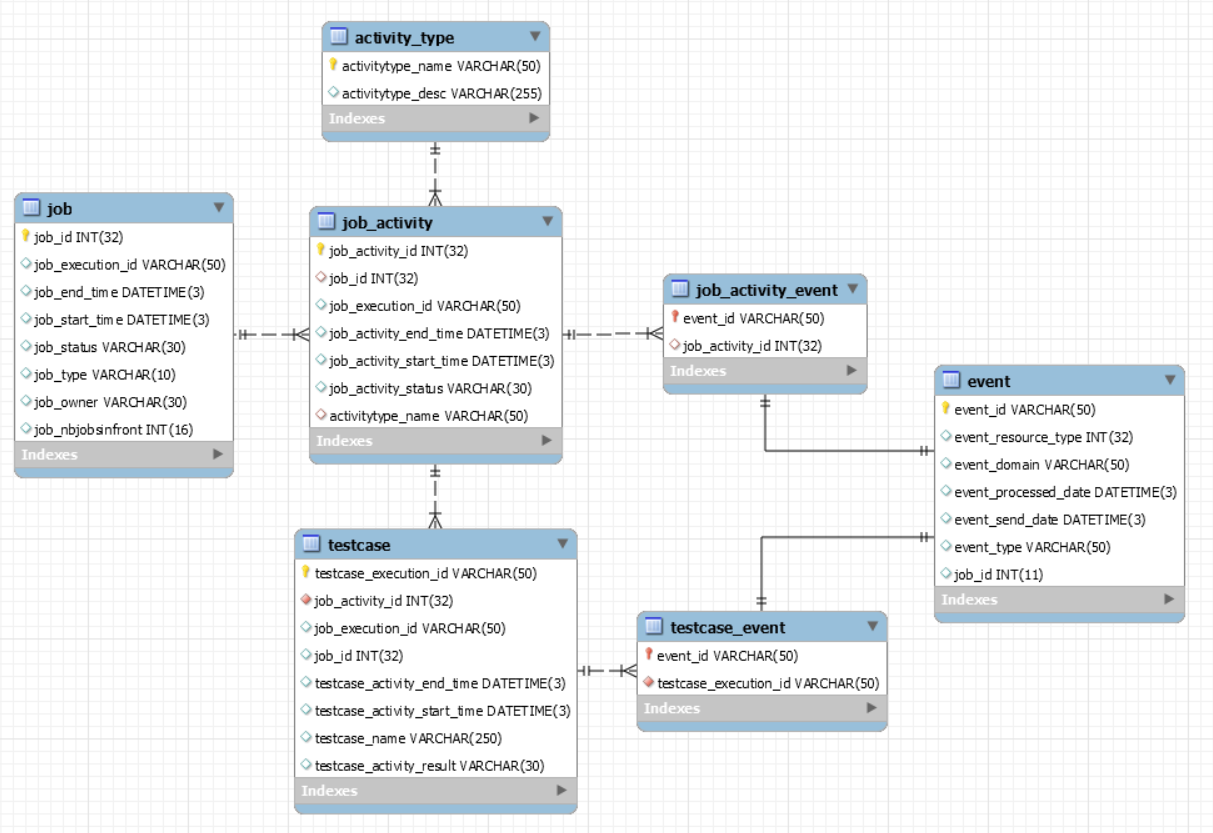
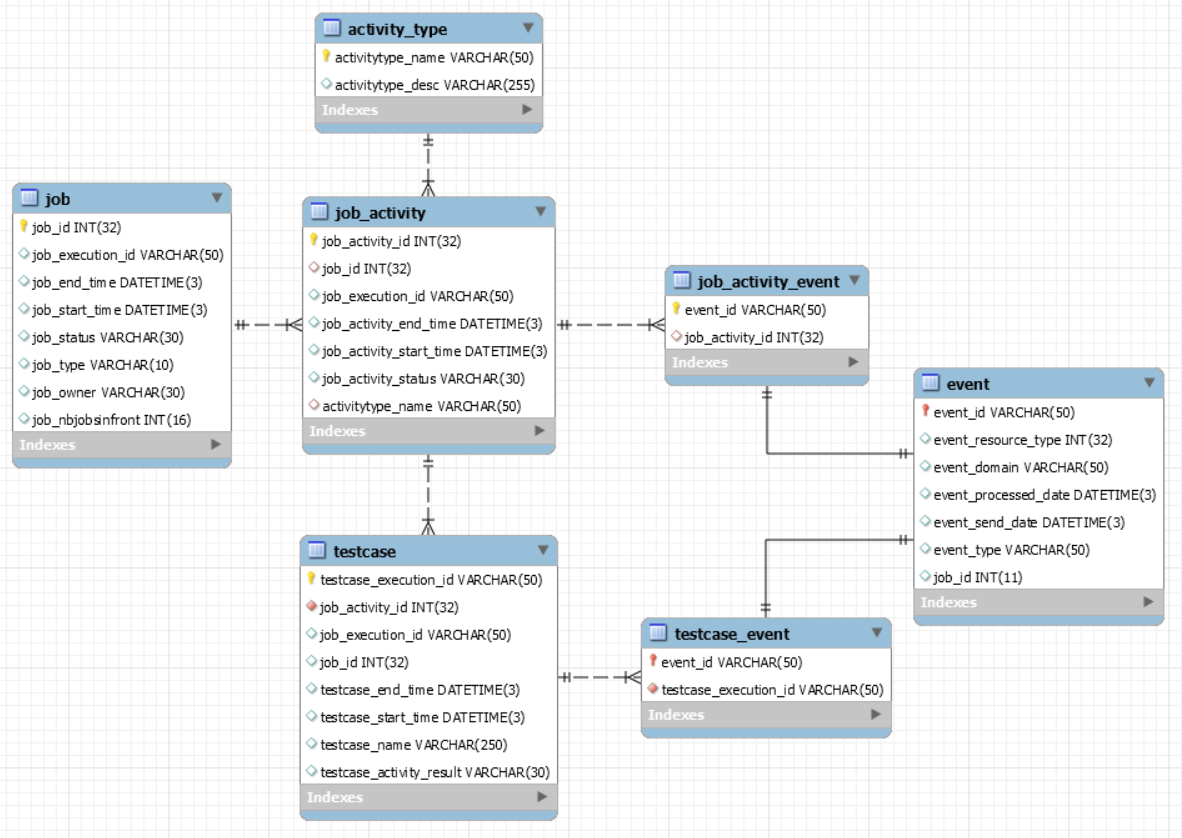
split model summary

Changed region(s): [[0.0, 0.0, 1.0, 0.9988]]

diff --git a/Data-Collector.md b/Data-Collector.md
@@ -1,0 +1,161 @@
+# Data-Collector模块总结
+
+## 一、数据库表结构
+
+![alt data-collector-db](C:\GitRepository\Z-DYZ\SUV-Summary\image\data-collector-db.png)
+
+## 二、该模块相关的Eiffel Message
+
+		data-collector服务将从RabbitMQ中收集5种Eiffel Message，分别为Job相关的三种：JobQueueEvent、JobStartedEvent和JobFinishedEvent，以及Testcase相关的两种：TestcaseStartedEvent、TestcaseFinishedEvent。
+
+### 1、JobQueueEvent
+
+		表示一个Job已经加入了某个STP pool的等待队列中，等待空闲的STP被分配出来用以执行该任务。该message中的关键字段有：domainId表示该message的发送方、eventType表示event类型、eventTime表示该event的发生时间、jobExecutionId表示该job的唯一标识、jobId也表示该job的唯一标识。值得注意的是，该类message中没有STP的名字，因为等待阶段该job的STP还没有分配。
+
+### 2、JobStartedEvent
+
+		表示一个Job已经被分配了STP并开始执行，该message中的关键字段有：domainId、eventType、eventTime、jobExecutionId、jobId、stp表示执行该job的STP的名字。Job执行过程中，除了最开始的install UP环节外，大部分时间都是在串行执行多个Testcase。
+
+### 3、TestcaseStartedEvent
+
+		表示一个testcase开始执行，该message中的关键字段除了domainId、eventType、eventTime、jobExecutionId、jobId、stp等字段外，还有testCaseExecutionId是该testcase的唯一标识。
+
+### 4、TestcaseFinishedEvent
+
+		表示一个testcase执行结束，该message中的关键字段为domainId、eventType、eventTime、jobExecutionId、jobId、stp、testCaseExecutionId，除了这些还有resultCode表示该testcase的执行结果是成功还是失败。
+
+### 5、JobFinishedEvent
+
+		表示一个Job已经执行完毕，该message中的关键字段包括domainId、eventType、eventTime、jobExecutionId、jobId、stp等。
+
+### 6、Message Flow
+
+		如图所示是一个完整的Job执行流程，该Job执行期间运行了三个testcase。图上涉及的9个event中的domainId、jobExecutionId、jobId、stp应该都是相同的。每一对testcase的event中testCaseExecutionId应该是相同的。每一个event中还有一个inputEvent字段，其值为该message上游message的eventId的值，该字段的作用是：当我们拿到某个message，便可以通过inputEvent字段找到该message所处job工作流的上游全部message。
+
+![alt eiffel-flow](C:\GitRepository\Z-DYZ\SUV-Summary\image\eiffel-flow.png)
+
+## 三、 数据处理流程
+
+### 1、当接收到JobQueueEvent时
+
+- Job表插入一条新的记录，写入job_id，job_execution_id，并将该Event中的eventTime做为job_start_time。或者根据jobId/jobExecutionId查询已经存在的纪录，并更新以上字段。（有可能是data-collector先收到了该Job其他的event，所以jobId/jobExecutionId对应的纪录已经存在）
+
+- JobActivity表插入一条job_activity_type为job_queue的新纪录，写入job_id，job_execution_id，并将该Event中的eventTime字段的值做为job_activity_start_time。或者根据jobId/jobExecutionId查询job_activity_type为job_queue的纪录，并更新以上字段。(有可能是data-collector先收到了该Job的JobStartedEvent，所以该jobId或者jobExecutionId对应的job_activity_type为job_queue的纪录已经存在）
+- JobActivityEvent表中插入一条新的记录，写入event_id和job_activity_id字段。
+
+- Event表中插入一条新的纪录，写入相关字段。
+
+### 2、当接收到JobStartedEvent时
+
+- Job表插入一条新的纪录，写入job_id，job_execution_id。或者根据jobId/jobExecutionId查询已经存在的纪录，并更新以上字段。
+
+- JobActivity分别表插入两条job_activity_type为job_queue和job_execution的新纪录。写入job_id，job_execution_id，并将该Event中的eventTime字段的值分别做为job_activity_type为job_queue纪录的job_activity_end_time以及job_activity_type为job_execution纪录的job_activity_start_time。或者根据jobId/jobExecutionId分别查询job_activity_type为job_queue和job_execution的纪录，并更新以上字段。
+- JobActivityEvent表中插入一条新的记录，写入event_id和job_activity_id字段。
+- Event表中插入一条新的纪录，写入相关字段。
+
+### 3、当接收到TestcaseStartedEvent时
+
+- Job表插入一条新的纪录，写入job_id，job_execution_id。或者根据jobId/jobExecutionId查询已经存在的纪录，并更新以上字段（该Job的JobQueueEvent或者JobStartedEvent已经收到，该job在Job表中的记录已经存在）。
+- JobActivity表插入一条job_activity_type为testcase_execution的新纪录，写入job_id，job_execution_id，并将该Event中的eventTime字段的值做为job_activity_start_time。或者根据jobId/jobExecutionId查询job_activity_type为job_execution的纪录，并更新以上字段。(有可能是data-collector先收到了TestcaseFinishedEvent，所以该记录已经存在）注意，对于同一个testcase_execution activity可能存在多个test case，所以job_activity_start_time要是用多个TestcaseStartedEvent中最早的eventTime。
+- TestCase表中插入一条新的纪录，写入testcase_execution_id、activity_id、job_execution_id、job_id、testcase_start_time、testcard_name字段。或者使用testcase_execution_id查询已经存在的纪录，更新testcase_start_time的值。
+- TestcaseEvent中插入一条新的纪录，写入event_id和testcase_execution_id。
+
+- Event表中插入一条新的纪录，写入相关字段。
+
+### 4、当接收到TestcaseFinishdEvent时
+
+- Job表插入一条新的纪录，写入job_id，job_execution_id。或者根据jobId/jobExecutionId查询已经存在的纪录，并更新以上字段。
+- JobActivity表插入一条job_activity_type为testcase_execution的新纪录，写入job_id，job_execution_id，并将该Event中的eventTime字段的值做为job_activity_end_time。或者根据jobId/jobExecutionId查询job_activity_type为job_execution的纪录，并更新以上字段。(有可能是data-collector先收到了TestcaseStartedEvent，所以该记录已经存在）注意，对于同一个testcase_execution activity可能存在多个test case，所以job_activity_end_time要是用多个TestcaseStartedEvent中最晚的eventTime。
+- TestCase表中插入一条新的纪录，写入testcase_execution_id、activity_id、job_execution_id、job_id、testcase_end_time、testcase_name以及testcase_result字段。或者使用testcase_execution_id查询已经存在的纪录，更新testcase_end_time的值。
+- TestcaseEvent中插入一条新的纪录，写入event_id和testcase_execution_id。
+
+- Event表中插入一条新的纪录，写入相关字段。
+
+### 5、当接收到JobFinishdedEvent时
+
+- Job表插入一条新的纪录，写入job_id，job_execution_id。或者根据jobId/jobExecutionId查询已经存在的纪录，并更新以上字段。
+
+- JobActivity表插入一条job_activity_type为job_execution的新纪录，写入job_id，job_execution_id，并将该Event中的eventTime字段的值做为job_activity_end_time。或者根据jobId/jobExecutionId查询job_activity_type为job_execution的纪录，并更新以上字段。(有可能是data-collector先收到了该Job其他的event，所以jobId/jobExecutionId对应的纪录已经存在）
+- JobActivityEvent表中插入一条新的记录，写入event_id和job_activity_id字段。
+- Event表中插入一条新的纪录，写入相关字段。
+
+## 四、该模块中解决的关键问题
+
+#### 1、多条Message并发更新同一条记录
+
+		Job表和Testcase表的主键不是自增主键，Job表为JobId，Tsetcase表为TestcaseExecutionId，表中每一条记录的start_time和end_time两个字段分别是两条Eiffel Message负责更新的，例如对于一个Job表的记录，其start_time是由JobQueueEvent更新，end_time是由JobFinishedEvent更新。更新该条记录的伪代码如下：
+
+```java
+Job job = db.queryByJobId(jobId);
+if (job == null) {
+	job = new Job();
+}
+job.setJobId(event.getJobId());
+if (event.type == "JobQueueEvent") {
+	job.setStartTime(event.getTime());
+}
+if (event.type == "JobFinishedEvent") {
+	job.setEndTime(event.getTime());
+}
+db.save(job);
+```
+
+可以看到如果Job表中已经存在对应JobId的记录，那么就获取该记录然后根据event的类型修改对应的startTime或者endTime。如果不存在该记录就创建一个新的Job对象然后填写属性。正常情况下，当JobQueueEvent和JobFinishedEvent依次被处理后，Job表中就会存在一条记录，其startTime和endTime分别为两个event中的eventTime字段的值。
+
+		当JobQueueEvent和JobFinishedEvent几乎同时接收到，也就是两个线程（A和B，A处理JobQueueEvent，B处理JobFinishedEvent）同时走到该代码处，两个线程同时查询DB不存在对应JobId的记录，就同时创建了两个新的对象（objectA和objectB，其中objectA的endTime为null，objectB的startTime为null）。然后几乎同时执行db.save()函数。
+
+		我们在代码中使用的Spring Data JPA，其save()函数源代码如下，persist()方法直接执行insert，merge()函数会先select，然后执行insert或者update。Job表中JobId为主键，objectA和objectB都会有jobId的值，所以isNew()方法会返回false，所以执行的是merge()方法。
+
+```java
+public <S extends T> S save(S entity) {
+	if (entityInformation.isNew(entity)) {
+		em.persist(entity);
+		return entity;
+	} else {
+		return em.merge(entity);
+	}
+}
+```
+
+		这里会产生两种情况的问题：
+
+		第一种情况，A线程执行save()函数，merge()方法通过select判断不存在该JobId的记录，执行insert语句，在A线程的记录还没有写入数据库之前，B线程也执行了save()函数，并判断不存在该JobId的记录，也执行insert语句。综上，A和B线程最终都执行了insert语句，后执行的insert会报主键冲突，执行失败。
+
+		第二种情况，A线程执行稍快，merge()方法通过select判断不存在该JobId的记录，执行insert语句，在A线程的记录成功写入数据库后，B线程才执行到merge()方法，通过select判断记录存在，于是执行了update语句。因为objectB中不携带startTime，所以这个update就将A线程写入的startTime更新为NULL。
+
+		综合两种情况的解决方案如下：
+
+		首先，让实体类Job实现JPA的Persistable接口，覆盖其中的isNew()方法，这样save()方法中的entityInfomation就不会使用默认的JpaMetamodelEntityInformation实现，而是使用JpaPersistableEntityInformation实现类（SimpleJpaRepository类的构造函数中会做上述的判断），JpaPersistableEntityInformation的isNew()方法就会调用Persistable实现类的isNew()方法，即我们覆写的实体类的isNew()方法。
+
+```java
+public class Job implements java.io.Serializable, Persistable<Integer> {
+    @Transient //不需要序列化的字段
+    @Setter
+    private boolean newFlag;
+    
+    @Override
+    public boolean isNew() {
+        return newFlag;
+    }
+    ...
+}
+```
+
+		然后，在我们的代码中当查询不存在对应JobId的Job记录，创建新的Job对象后，将该对象的isNew的flag设置为true。最后，在整个service方法上加上@Retry注解，在抛出主键冲突异常后重试。
+
+```java
+@Retryable(include = DuplicateEntryExecption)
+public void service() {
+	Job job = db.queryByJobId(jobId);
+	if (job == null) {
+		job = new Job();
+		job.setNewFlag(true);
+	}
+	...
+	db.save(job);
+}
+```
+
+		如此，A和B线程同时查询记录不存在并创建新对象后都会执行insert方法，后者主键冲突后重试整个方法，重新查询Job对象存在，就会正常更新。
+
+		

diff --git a/SUV.md b/SUV.md
@@ -20,87 +20,3 @@ SUV 项目总结
 * 数据计算模块：data-processor service，从数据库中读取原始数据并计算，并将计算后的数据保存入库。
 * 消息恢复模块：data-recovery service，查找由于异常丢失的Eiffel Message并发送给数据收集模块进行恢复。
 
-## 四、原始数据收集模块（data-collector service）简述
-
-### 1. 表结构
-
-![alt data-collector-db](image/data-collector-db.png)
-
-### 2. Job&Testcase相关的Eiffel message
-
-		data-collector服务将从RabbitMQ中收集5种Eiffel Message，分别为Job相关的三种：JobQueueEvent、JobStartedEvent和JobFinishedEvent，以及Testcase相关的两种：TestcaseStartedEvent、TestcaseFinishedEvent。
-
-		JobQueueEvent表示一个Job已经加入了某个STP pool的等待队列中，等待空闲的STP被分配出来用以执行该任务。该message中的关键字段有：domainId表示该message的发送方、eventType表示event类型、eventTime表示该event的发生时间、jobExecutionId表示该job的唯一标识、jobId也表示该job的唯一标识。值得注意的是，该类message中没有STP的名字，因为等待阶段该job的STP还没有分配。
-
-		JobStartedEvent表示一个Job已经被分配了STP并开始执行，该message中的关键字段有：domainId、eventType、eventTime、jobExecutionId、jobId、stp表示执行该job的STP的名字。Job执行过程中，除了最开始的install UP环节外，大部分时间都是在串行执行多个Testcase。
-
-		TestcaseStartedEvent表示一个testcase开始执行，该message中的关键字段除了domainId、eventType、eventTime、jobExecutionId、jobId、stp等字段外，还有testCaseExecutionId是该testcase的唯一标识。
-
-		TestcaseFinishedEvent表示一个testcase执行结束，该message中的关键字段为domainId、eventType、eventTime、jobExecutionId、jobId、stp、testCaseExecutionId，除了这些还有resultCode表示该testcase的执行结果是成功还是失败。
-
-		JobFinishedEvent表示一个Job已经执行完毕，该message中的关键字段包括domainId、eventType、eventTime、jobExecutionId、jobId、stp等。
-
-![alt eiffel-flow](image/eiffel-flow.png)
-
-		如上图所示是一个完整的Job执行流程，该Job执行期间运行了三个testcase。图上涉及的9个event中的domainId、jobExecutionId、jobId、stp应该都是相同的。每一对testcase的event中testCaseExecutionId应该是相同的。每一个event中还有一个inputEvent字段，其值为该message上游message的eventId的值，该字段的作用是：当我们拿到某个message，便可以通过inputEvent字段找到该message所处job工作流的上游全部message。
-
-### 3. 数据处理流程
-
-* 当接收到JobQueueEvent时，写表顺序如下：
-
-  1）Job表插入一条新的记录，写入job_id，job_execution_id，并将该Event中的eventTime做为job_start_time。或者根据jobId/jobExecutionId查询已经存在的纪录，并更新以上字段。（有可能是data-collector先收到了该Job其他的event，所以jobId/jobExecutionId对应的纪录已经存在）
-
-  2）JobActivity表插入一条job_activity_type为job_queue的新纪录，写入job_id，job_execution_id，并将该Event中的eventTime字段的值做为job_activity_start_time。或者根据jobId/jobExecutionId查询job_activity_type为job_queue的纪录，并更新以上字段。(有可能是data-collector先收到了该Job其他的event，所以jobId/jobExecutionId对应的纪录已经存在）
-
-  3）JobActivityEvent表中插入一条新的记录，写入event_id和job_activity_id字段。
-
-  4）Event表中插入一条新的纪录，写入相关字段。
-
-* 当接收到JobStartedEvent时，写表顺序如下：
-
-  1）Job表插入一条新的纪录，写入job_id，job_execution_id。或者根据jobId/jobExecutionId查询已经存在的纪录，并更新以上字段。
-
-  2）JobActivity分别表插入两条job_activity_type为job_queue和job_execution的新纪录。写入job_id，job_execution_id，并将该Event中的eventTime字段的值分别做为job_activity_type为job_queue纪录的job_activity_end_time以及job_activity_type为job_execution纪录的job_activity_start_time。或者根据jobId/jobExecutionId分别查询job_activity_type为job_queue和job_execution的纪录，并更新以上字段。
-
-  3）JobActivityEvent表中插入一条新的记录，写入event_id和job_activity_id字段。
-
-  4）Event表中插入一条新的纪录，写入相关字段。
-
-* 当接收到TestcaseStartedEvent时，写表顺序如下：
-
-  1）Job表插入一条新的纪录，写入job_id，job_execution_id。或者根据jobId/jobExecutionId查询已经存在的纪录，并更新以上字段。
-
-  2）JobActivity表插入一条job_activity_type为testcase_execution的新纪录，写入job_id，job_execution_id，并将该Event中的eventTime字段的值做为job_activity_start_time。或者根据jobId/jobExecutionId查询job_activity_type为job_execution的纪录，并更新以上字段。(有可能是data-collector先收到了该Job其他的event，所以jobId/jobExecutionId对应的纪录已经存在）注意，对于同一个testcase_execution activity可能存在多个test case，所以job_activity_start_time要是用多个TestcaseStartedEvent中最早的eventTime。
-
-  3）TestCase表中插入一条新的纪录，写入testcase_execution_id、activity_id、job_execution_id、job_id、testcase_start_time、testcard_name字段。或者使用testcase_execution_id查询已经存在的纪录，更新testcase_activity_start_time的值。
-
-  4）TestcaseEvent中插入一条新的纪录，写入event_id和testcase_execution_id。
-
-  5）Event表中插入一条新的纪录，写入相关字段。
-
-* 当接收到TestcaseFinishdEvent时，写表顺序如下：
-
-  1）Job表插入一条新的纪录，写入job_id，job_execution_id。或者根据jobId/jobExecutionId查询已经存在的纪录，并更新以上字段。
-
-  2）JobActivity表插入一条job_activity_type为testcase_execution的新纪录，写入job_id，job_execution_id，并将该Event中的eventTime字段的值做为job_activity_end_time。或者根据jobId/jobExecutionId查询job_activity_type为job_execution的纪录，并更新以上字段。(有可能是data-collector先收到了该Job其他的event，所以jobId/jobExecutionId对应的纪录已经存在）注意，对于同一个testcase_execution activity可能存在多个test case，所以job_activity_end_time要是用多个TestcaseStartedEvent中最晚的eventTime。
-
-  3）TestCase表中插入一条新的纪录，写入testcase_execution_id、activity_id、job_execution_id、job_id、testcase_end_time、testcase_name以及testcase_result字段。或者使用testcase_execution_id查询已经存在的纪录，更新testcase_activity_end_time的值。
-
-  4）TestcaseEvent中插入一条新的纪录，写入event_id和testcase_execution_id。
-
-  5）Event表中插入一条新的纪录，写入相关字段。
-
-* 当接收到JobFinishdedEvent时，写表顺序如下：
-
-  1）Job表插入一条新的纪录，写入job_id，job_execution_id。或者根据jobId/jobExecutionId查询已经存在的纪录，并更新以上字段。
-
-  2）JobActivity表插入一条job_activity_type为job_execution的新纪录，写入job_id，job_execution_id，并将该Event中的eventTime字段的值做为job_activity_end_time。或者根据jobId/jobExecutionId查询job_activity_type为job_execution的纪录，并更新以上字段。(有可能是data-collector先收到了该Job其他的event，所以jobId/jobExecutionId对应的纪录已经存在）
-
-  3）JobActivityEvent表中插入一条新的记录，写入event_id和job_activity_id字段。
-
-  4）Event表中插入一条新的纪录，写入相关字段。
-
-### 4. 该模块中解决的关键问题
-
-
-
